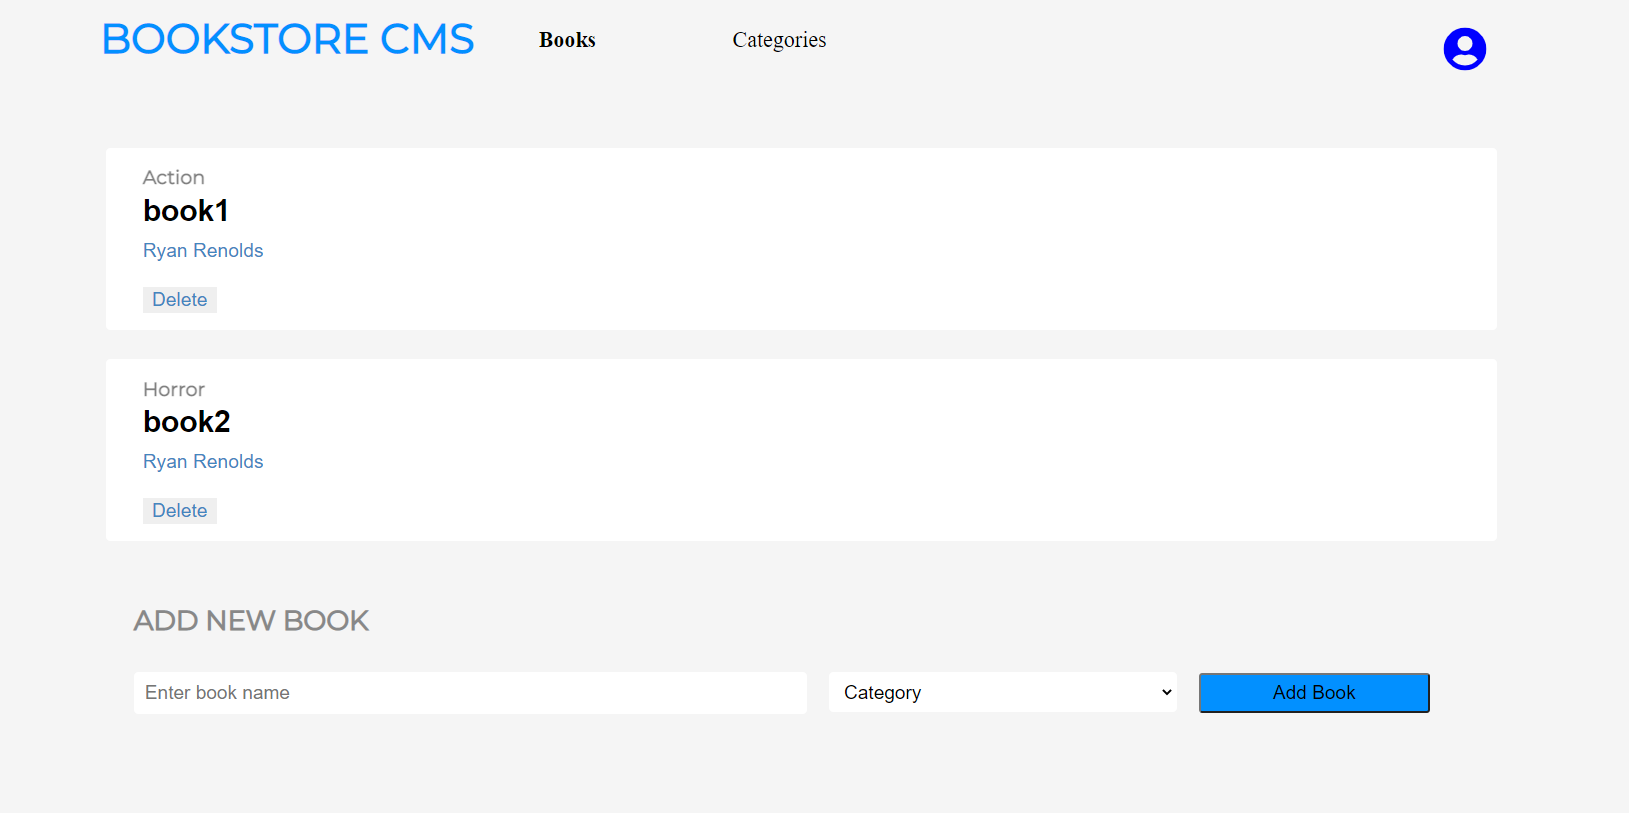
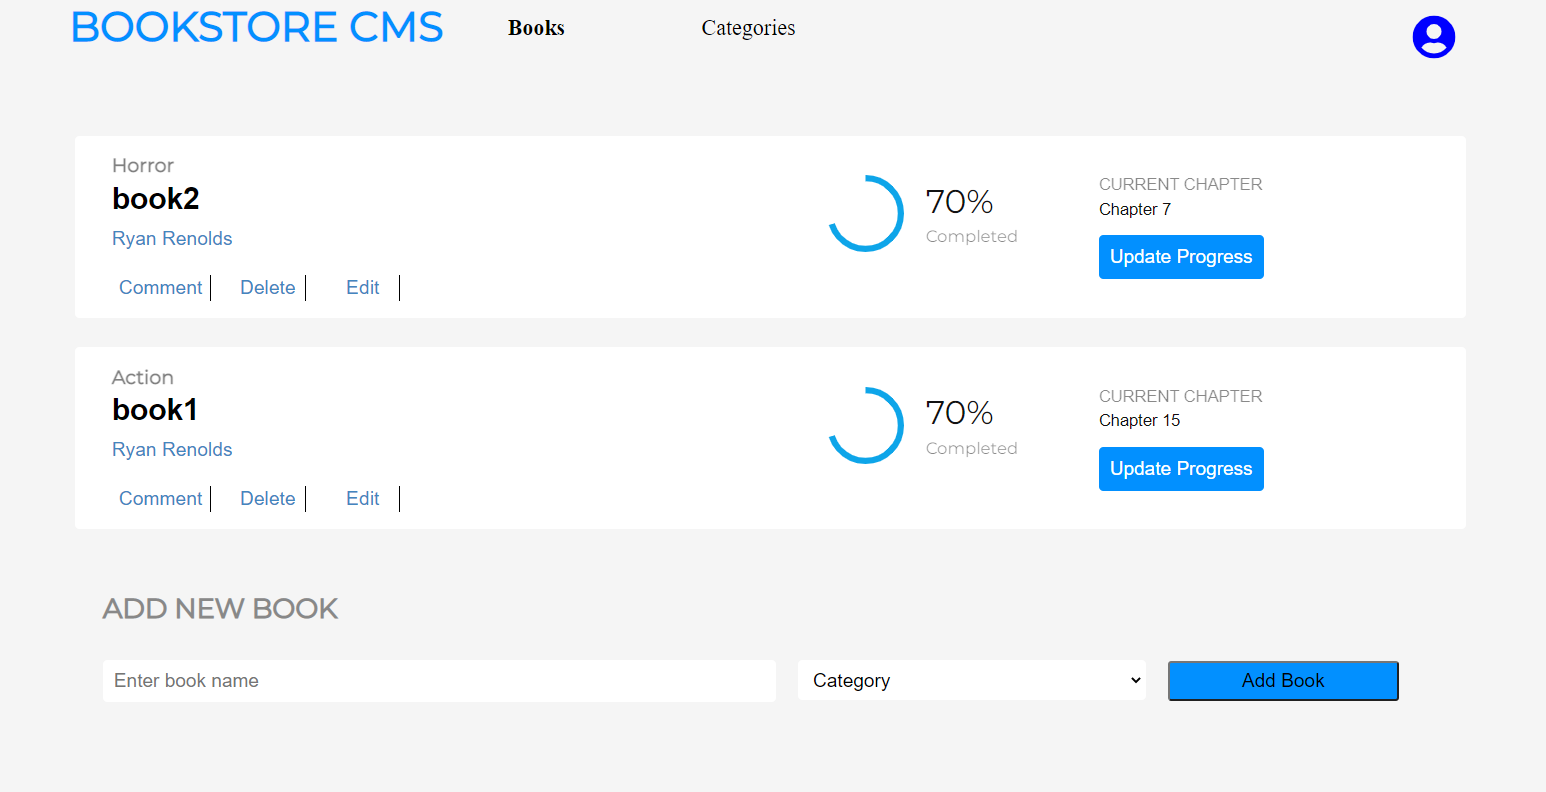
Add more styling to the app

diff --git a/src/components/BooksUI/Bookinfo.js b/src/components/BooksUI/Bookinfo.js
@@ -1,9 +1,11 @@
 import { useDispatch } from 'react-redux';
+import { CircularProgressbar, buildStyles } from 'react-circular-progressbar';
 import { deleteBook } from '../../redux/books/api';
 
 const Bookinfo = ((props) => {
   const data = props;
   const dispatch = useDispatch();
+  const percentage = 70;
 
   const deleteBookFromStore = (e) => {
     dispatch(deleteBook(e.target.id));
@@ -11,17 +13,46 @@ const Bookinfo = ((props) => {
 
   return (
     <li className="book-container">
-      <p className="cat">{data.category}</p>
-      <p className="titleData">{data.title}</p>
-      <p className="author">Ryan Renolds</p>
-      <button
-        className="remove"
-        type="button"
-        onClick={deleteBookFromStore}
-        id={data.idx}
-      >
-        Delete
-      </button>
+      <div>
+        <p className="cat">{data.category}</p>
+        <p className="titleData">{data.title}</p>
+        <p className="author">Ryan Renolds</p>
+        <button className="remove comment" type="button">Comment</button>
+        <button
+          className="remove"
+          type="button"
+          onClick={deleteBookFromStore}
+          id={data.idx}
+        >
+          Delete
+        </button>
+        <button className="remove" type="button">Edit</button>
+      </div>
+      <div className="extra-prop">
+        <div className="progressAnalysis">
+          <CircularProgressbar
+            value={percentage}
+            styles={buildStyles({ pathColor: '#0EA5E9', marginRight: '10px' })}
+            className="progress-bar"
+          />
+          <div className="progressPercentV">
+            <p className="progressPercent">
+              {percentage}
+              %
+            </p>
+            <p className="completedStatus">Completed</p>
+          </div>
+        </div>
+        <div className="updateOne">
+          <h2 className="heading2">CURRENT CHAPTER</h2>
+          <h3 className="heading3">
+            Chapter
+            {' '}
+            { `${Math.floor(Math.random() * 50)}`}
+          </h3>
+          <button type="button" className="updatedProgress">Update Progress</button>
+        </div>
+      </div>
     </li>
   );
 });

diff --git a/src/index.css b/src/index.css
@@ -44,6 +44,8 @@ a {
 }
 
 .book-container {
+  display: flex;
+  flex-direction: row;
   width: 60vw;
   height: 13vh;
   margin: 1.313rem 3.25rem 0;
@@ -122,6 +124,14 @@ a {
   letter-spacing: normal;
   color: #4386bf;
   border: none;
+  cursor: pointer;
+  border-right: 1px black solid;
+  background-color: white;
+}
+
+.comment {
+  margin-left: 0;
+  width: 4.5rem;
 }
 
 .author {
@@ -204,4 +214,80 @@ a {
   height: 1rem;
   text-align: end;
   margin-top: 2rem;
+}
+
+.progressAnalysis {
+  display: flex;
+  gap: 20px;
+}
+
+.progress-bar {
+  height: 70px;
+  width: 70px;
+}
+
+.progressPercentV {
+  display: flex;
+  flex-direction: column;
+  margin-top: 5px;
+}
+
+.progressPercent {
+  font-family: 'Montserrat', sans-serif;
+  font-size: 30px;
+  margin: 0;
+  color: #121212;
+  font-weight: 500;
+}
+
+.completedStatus {
+  margin: 0;
+  margin-top: 5px;
+  font-family: 'Montserrat', sans-serif;
+  color: #121212;
+  opacity: 0.5;
+  font-size: 15px;
+}
+
+.updateOne {
+  display: flex;
+  flex-direction: column;
+}
+
+.heading2 {
+  color: #121212;
+  opacity: 0.5;
+  font-family: 'RobotoSlab', sans-serif;
+  margin: 0;
+  font-size: 15px;
+  font-weight: 300;
+}
+
+.heading3 {
+  color: #121212;
+  font-family: 'RobotoSlab', sans-serif;
+  margin: 0;
+  margin-top: 5px;
+  margin-bottom: 15px;
+  font-weight: 300;
+  font-size: 15px;
+}
+
+.updatedProgress {
+  width: 150px;
+  background-color: #0290ff;
+  color: #fff;
+  border: none;
+  border-radius: 4px;
+  cursor: pointer;
+  padding: 10px;
+  white-space: nowrap;
+}
+
+.extra-prop {
+  display: flex;
+  flex-direction: row;
+  justify-content: space-between;
+  width: 30rem;
+  padding-top: 1rem;
 }
